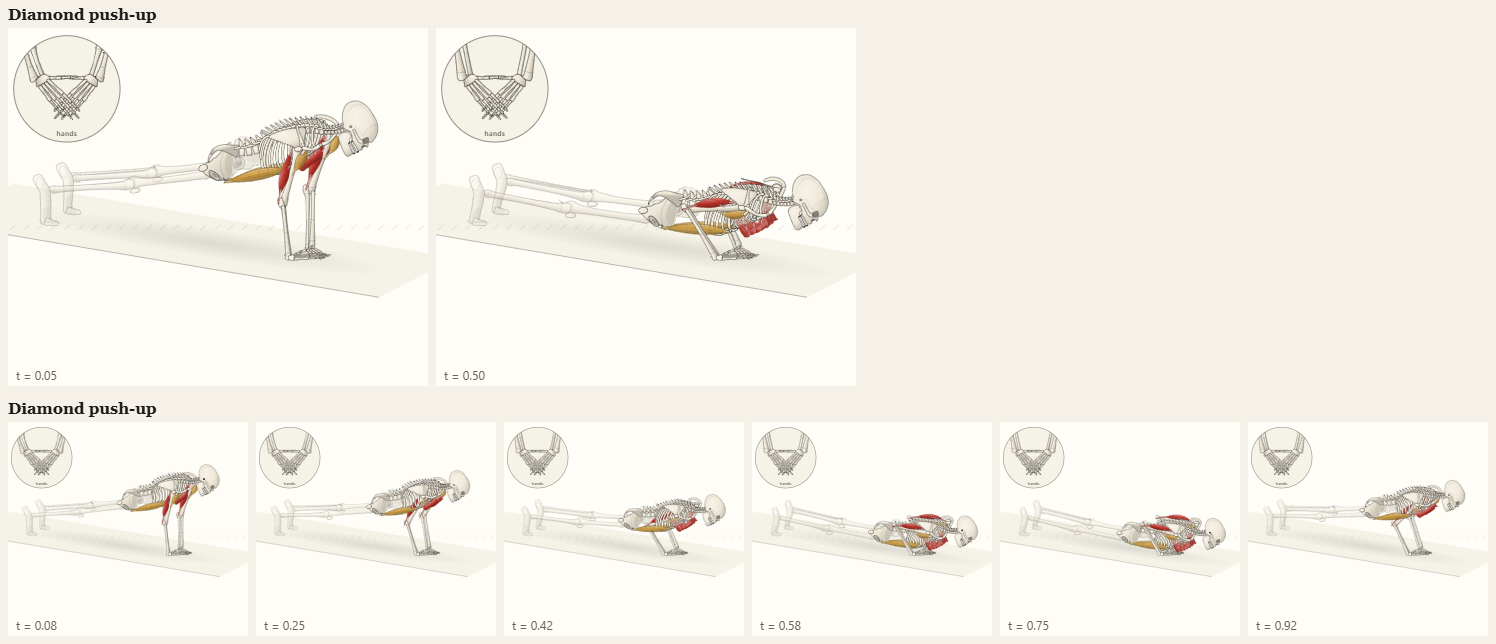
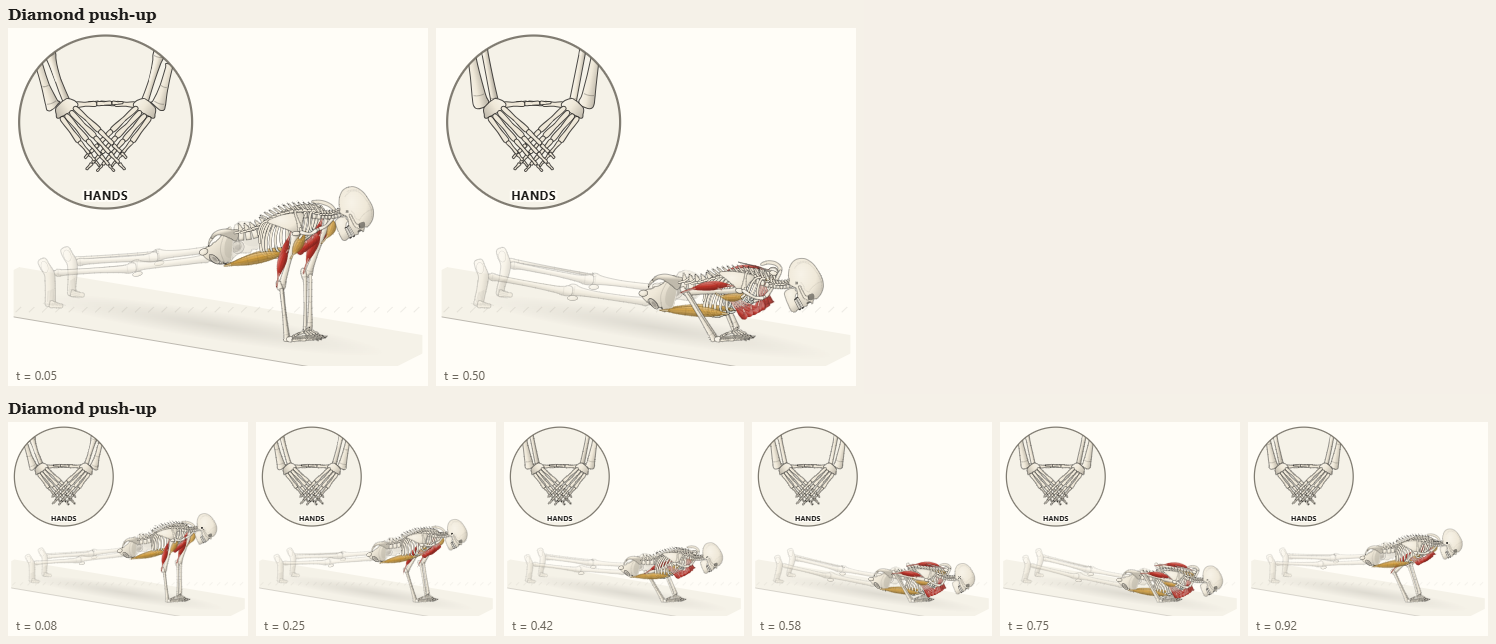
Detail inset: about 30% of the stage (at least ~110 px across), thicker ring, clear label; the view box makes room for it so it never covers the figure; corner per clip

diff --git a/js/anim/v2/plate.js b/js/anim/v2/plate.js
@@ -84,8 +84,8 @@ const STYLE = `
 .kt-pl .pl-br{fill:none;stroke:var(--accent-2,#D9A441);stroke-width:.5}
 .kt-pl .pl-brf{fill:var(--accent-2,#D9A441);fill-opacity:.18}
 .kt-pl .pl-dtb{fill:var(--surface,#FFFDF7);stroke:none}
-.kt-pl .pl-dto{fill:none;stroke:var(--ink-muted,#6B665C);stroke-width:.45;stroke-opacity:.7}
-.kt-pl .pl-dtl{fill:var(--ink-muted,#6B665C);font:600 3.2px system-ui,sans-serif;letter-spacing:.02em}
+.kt-pl .pl-dto{fill:none;stroke:var(--ink-muted,#6B665C);stroke-width:1;stroke-opacity:.85}
+.kt-pl .pl-dtl{fill:var(--ink,#1C1B19);font:700 5.4px system-ui,sans-serif;letter-spacing:.04em;text-transform:uppercase;paint-order:stroke;stroke:var(--surface,#FFFDF7);stroke-width:1.6px;stroke-linejoin:round}
 .kt-pl .pl-s0{stop-color:var(--pl-hi)} .kt-pl .pl-s1{stop-color:var(--bone,#EFE8D8)} .kt-pl .pl-s2{stop-color:var(--pl-sh)}
 .kt-pl .pl-p0{stop-color:color-mix(in srgb,var(--pl-mp) 62%,#fff)} .kt-pl .pl-p1{stop-color:var(--pl-mp)} .kt-pl .pl-p2{stop-color:color-mix(in srgb,var(--pl-mp) 62%,#000)}
 .kt-pl .pl-q0{stop-color:color-mix(in srgb,var(--pl-ms) 60%,#fff)} .kt-pl .pl-q1{stop-color:var(--pl-ms)} .kt-pl .pl-q2{stop-color:color-mix(in srgb,var(--pl-ms) 62%,#000)}
@@ -585,7 +585,9 @@ export function createPlatePlayer(container, animId, { primary, secondary, size 
     const d = st.clip.detail;
     if (!d || st.lod) { if (DT.on) { DT.g.setAttribute('display', 'none'); DT.on = false; } return; }
     if (!DT.on) { DT.g.removeAttribute('display'); DT.on = true; }
-    const vb = st.vb, R = .19 * Math.min(vb[2], vb[3]), m = 2.5, crn = d.corner || 'tl';
+    // about 30% of the stage width across, never under ~110 px on screen, never taller than 90% of the stage
+    const vb = st.vb, px = svg.clientWidth ? svg.clientWidth / vb[2] : 0, m = 2.5, crn = d.corner || 'tl';
+    const R = Math.min(.45 * vb[3], Math.max(.15 * vb[2], px ? 55 / px : 0));
     const cx = crn[1] === 'l' ? vb[0] + R + m : vb[0] + vb[2] - R - m, cy = crn[0] === 't' ? vb[1] + R + m : vb[1] + vb[3] - R - m;
     const cam = DT.cam || (DT.cam = camera(d.cam?.az ?? 90, d.cam?.el ?? 70));
     const pts = d.at.map(n => S.pt[n]).filter(Boolean), c = pts.reduce((a, p) => K.add(a, K.mul(p, 1 / pts.length)), [0, 0, 0]);
@@ -605,7 +607,7 @@ export function createPlatePlayer(container, animId, { primary, secondary, size 
     }
     g.end();
     DT.fg.begin(); DT.fg.add('circle', { cx: f2(cx), cy: f2(cy), r: f2(R) }, 'pl-dto');
-    if (d.label) DT.fg.add('text', { x: f2(cx), y: f2(cy + R - 2.6), 'text-anchor': 'middle' }, 'pl-dtl').textContent = d.label;
+    if (d.label) DT.fg.add('text', { x: f2(cx), y: f2(cy + R - 4), 'text-anchor': 'middle' }, 'pl-dtl').textContent = d.label;
     DT.fg.end();
   }
 
@@ -744,6 +746,8 @@ export function createPlatePlayer(container, animId, { primary, secondary, size 
     let [x0, y0, x1, y1] = bs.reduce((a, b) => [Math.min(a[0], b[0]), Math.min(a[1], b[1]), Math.max(a[2], b[2]), Math.max(a[3], b[3])]);
     const pad = st.lod ? 2 : 8; x0 -= pad; x1 += pad; y0 -= pad; y1 += pad;
     let w = x1 - x0, h = y1 - y0;
+    // a detail inset gets room of its own above (or below) the figure, so it never covers it
+    if (clip.detail && !st.lod) { const e = h * (clip.detail.room ?? .75); if ((clip.detail.corner || 'tl')[0] === 't') y0 -= e; h += e; }
     const ar = clip.aspect || K.clamp(w / h, .85, st.lod ? 1.3 : 1.5);
     if (w / h < ar) { const nw = h * ar; x0 -= (nw - w) / 2; w = nw; } else { const nh = w / ar; y0 -= (nh - h) * .7; h = nh; }
     const vb = [f2(x0), f2(y0), f2(w), f2(h)];

diff --git a/js/anim/v2/clips/push.js b/js/anim/v2/clips/push.js
@@ -124,7 +124,7 @@ const diamond_push_up = floorPlank(c => ({
   name: 'Diamond push-up', cam: { az: 30, el: 17 },
   muscles: { primary: ['triceps', 'chest'], secondary: ['front_delts', 'abs'] },
   arms: { both: { mode: 'ik', grip: 'palm', pole: [-.9, -1, .12], dir: s => [.76, 0, -.65 * s], target: (sd, s) => [c._hx, 0, c._hz * s] } },
-  detail: { at: ['palmR', 'palmL'], r: 17, cam: { az: 90, el: 72 }, label: 'hands' },
+  detail: { at: ['palmR', 'palmL'], r: 17, cam: { az: 90, el: 72 }, label: 'hands', corner: 'tl' },   // (top left: above the legs)
   keys: { top: { bodyAngle: 19, scapProt: 12 }, bottom: { bodyAngle: 8, scapProt: -7, cervical: -4, head: -12 } },
   timeline: rep('top', 'bottom', { ecc: 2.1 }),
   prep({ settle }) {
